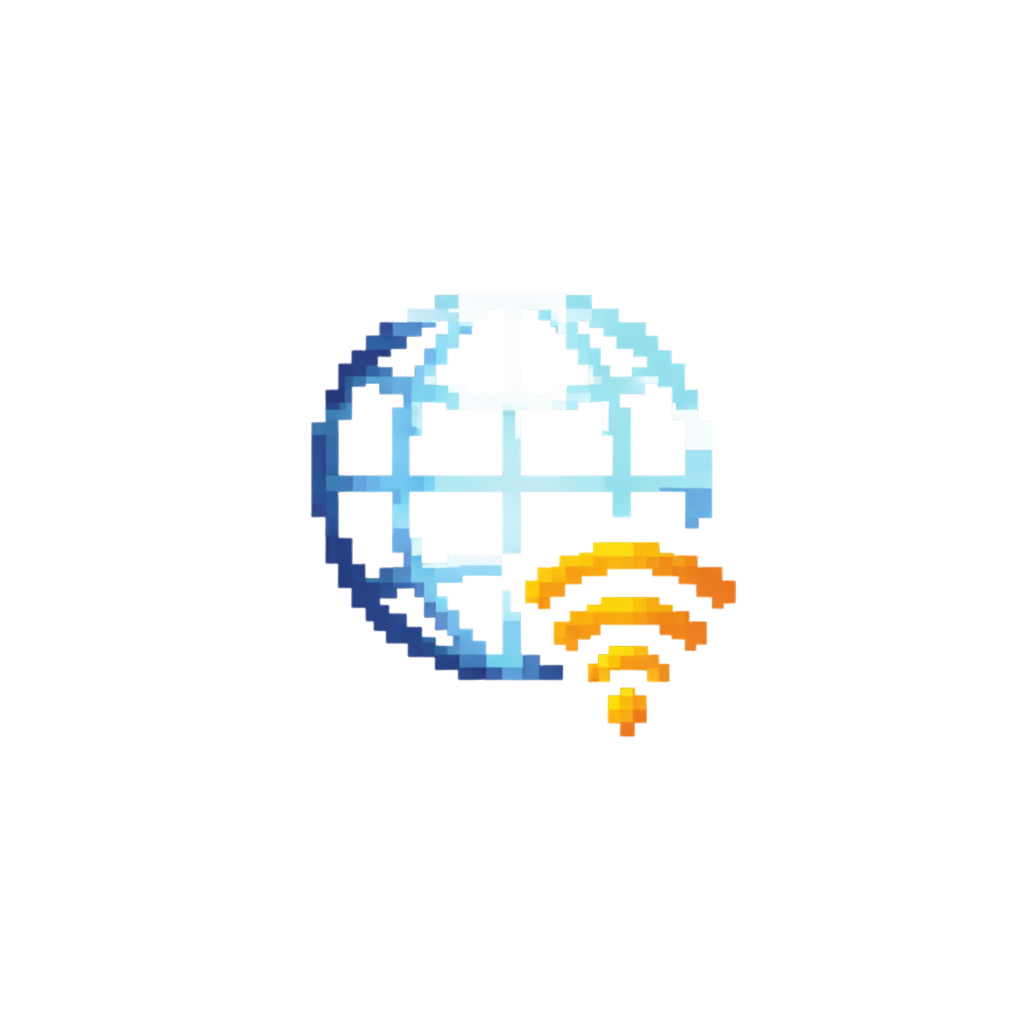
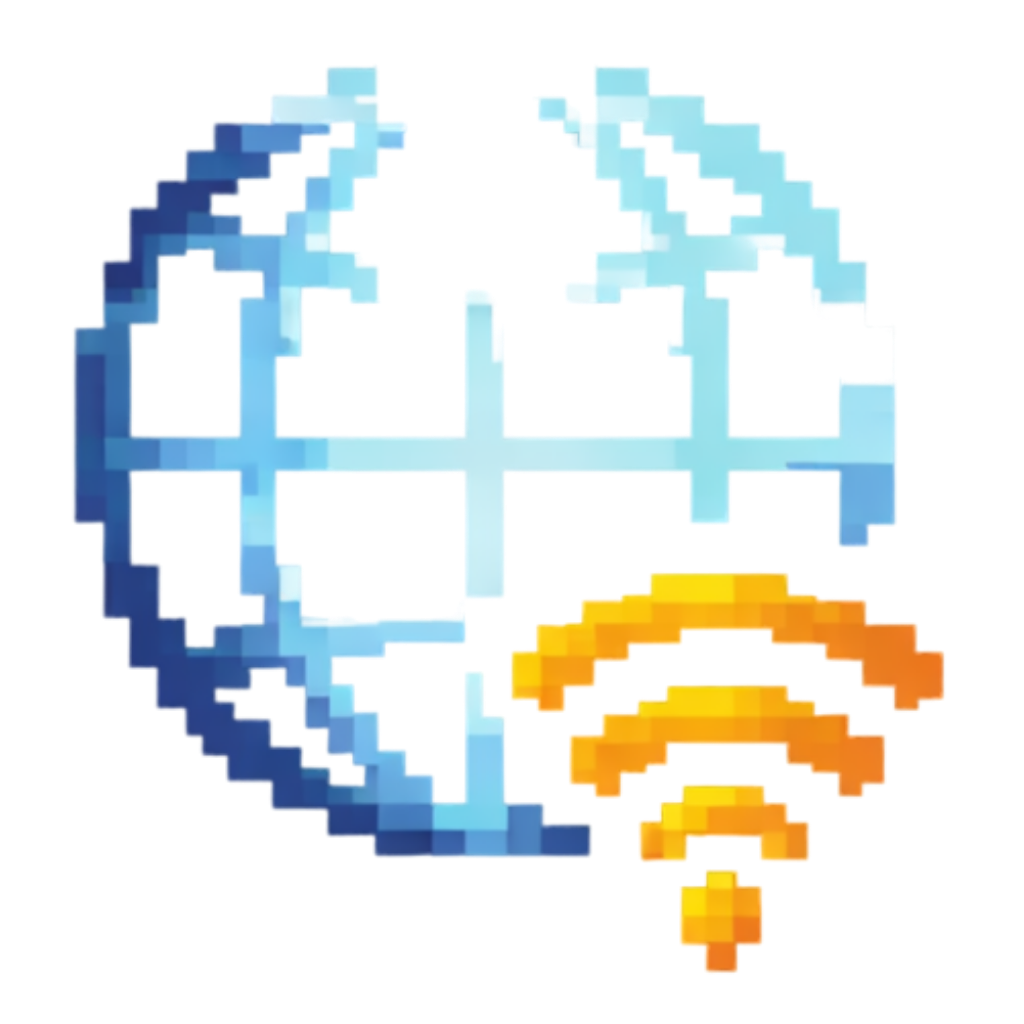
fix card on digitalproduct

Changed region(s): [[0.0625, 0.0625, 0.9375, 0.9688]]

diff --git a/src/App.jsx b/src/App.jsx
@@ -14,6 +14,8 @@ import jjw from "./assets/jjw.webp"
 import fore from "./assets/fore.webp"
 import logo from "./assets/nks_logo.png"
 import listKouta from "./assets/list_kouta.png"
+import imeiIcon from "./assets/imei_icon.png"
+import koutaIcon from "./assets/kouta_icon.png"
 
 const generateOrderId = (brandName) => {
   const time = Date.now().toString().slice(-6)
@@ -37,6 +39,11 @@ const brandImages = {
   "Kopi Kenangan": kkm,
   "Janji Jiwa": jjw,
   "Fore": fore
+}
+
+const digitalImages = {
+  imei: imeiIcon,
+  kouta: koutaIcon
 }
 
 function App() {
@@ -368,19 +375,30 @@ if (time.length < 3) {
   <>
     <h2>Pilih Produk</h2>
 
-    <div style={{ display: "grid", gap: 16 }}>
+    <div style={{
+      display: "grid",
+      gridTemplateColumns: isMobile ? "1fr 1fr" : "1fr 1fr 1fr",
+      gap: 16
+    }}>
       {digitalProducts.map(p => (
-        <div key={p.id}
-          onClick={() => setSelectedDigital(p)}
-          style={{
-            border: "1px solid #eee",
-            borderRadius: 16,
-            padding: 16,
-            cursor: "pointer"
-          }}>
-          <p style={{ fontWeight: 600 }}>{p.name}</p>
-        </div>
-      ))}
+  <div key={p.id}
+    onMouseEnter={e => e.currentTarget.style.transform = "scale(1.03)"}  
+    onMouseLeave={e => e.currentTarget.style.transform = "scale(1)"}
+    onClick={() => setSelectedDigital(p)}
+    style={{
+      border: "1px solid #eee",
+      borderRadius: 16,
+      padding: 14,
+      textAlign: "center",
+      cursor: "pointer",
+      transition: "0.2s"
+    }}>
+    <div style={{ height: 90, display: "flex", alignItems: "center", justifyContent: "center" }}>
+    <img src={digitalImages[p.image]} style={{ maxHeight: "70%"}} />
+    </div>
+    <p style={{ fontWeight: 600 }}> {p.name} </p>
+  </div>
+))}
     </div>
   </>
 )}
@@ -545,6 +563,8 @@ if (time.length < 3) {
               }}>
                 {brands.map(b => (
                   <div key={b.name}
+                  onMouseEnter={e => e.currentTarget.style.transform = "scale(1.03)"}  
+                  onMouseLeave={e => e.currentTarget.style.transform = "scale(1)"}
                     onClick={() => handleSelectBrand(b)}
                     style={{
                       border: "1px solid #eee",
@@ -555,7 +575,7 @@ if (time.length < 3) {
                       transition: "0.2s"
                     }}>
                     <div style={{ height: 90, display: "flex", alignItems: "center", justifyContent: "center" }}>
-                      <img src={brandImages[b.name]} style={{ maxHeight: "70%" }} />
+                    <img src={brandImages[b.name]} style={{ maxHeight: "70%" }} />
                     </div>
                     <p style={{ fontWeight: 600 }}>{b.name}</p>
                   </div>

diff --git a/src/data/menu.js b/src/data/menu.js
@@ -69,6 +69,7 @@ export const digitalProducts = [
     id: "imei",
     name: "Unblock IMEI",
     type: "imei",
+    image: "imei",
     variants: [
       { name: "1 Bulan", price: 75000 },
       { name: "3 Bulan", price: 95000 }
@@ -78,6 +79,7 @@ export const digitalProducts = [
     id: "internet",
     name: "Paket Akrab XL/Axis",
     type: "internet",
+    image: "kouta",
     variants: [
       { name: "XDA / Super Mini", price: 50000 },
       { name: "XDA25 / Extra Mini", price: 56000 },